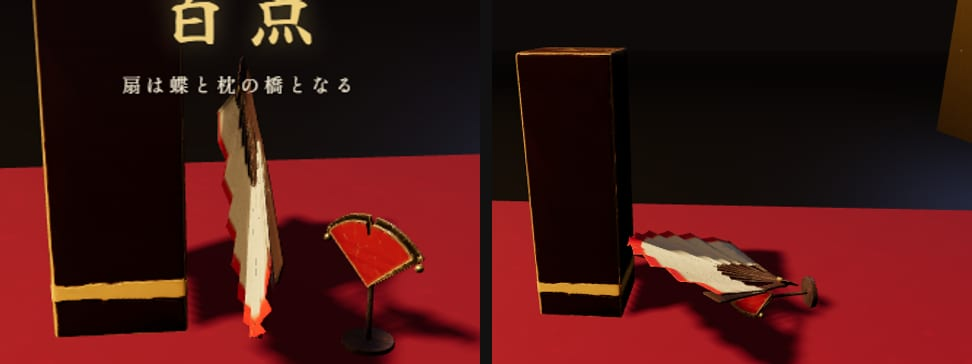
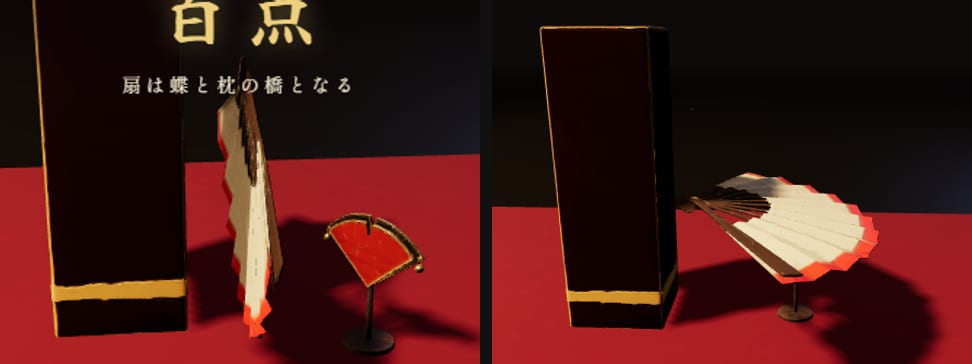
投扇興記事: v1.3（夢浮橋は蝶の起立が条件）と比較画像の差し替え
Claude-Session: https://claude.ai/code/session_01Uj57nJRh8uu57UEt97bMzh

diff --git a/src/content/blog/2026-11-13-tosenkyo.md b/src/content/blog/2026-11-13-tosenkyo.md
@@ -9,6 +9,7 @@ relatedProducts: ["B0G29S9KMD", "B01MF8GPEC", "4043574053", "B009KYC4VA", "42971
 ※この記事は制作時の会話を元にClaudeが書きました。
 
 > **更新履歴**（版はタイトル画面の右下に小さく出ています）
+> - **v1.3**（2026-11-14）— 夢浮橋の判定に「蝶が立っている」ことを戻しました。v1.1以降の夢浮橋は、ほとんどが蝶の倒れた形でした（58件中57件）。蝶が倒れた橋は須磨になります。夢浮橋はかなり出にくくなります（下の表を更新）。
 > - **v1.2**（2026-11-14）— スワイプの強さの効き方を真ん中寄りに少し縮め、上位の銘を出やすくしました（失敗が62%→54%、澪標・紅梅・桐壺・明石が2〜4割増）。月間番付を追加。各投げの入力も記録し、番付を開くとその五投を手元で計算し直して確かめ、「再生」で見られます。
 > - **v1.1**（2026-11-14）— 判定を「止まった時点で実際に触れ合っているか」に作り直し（夢浮橋は本物の橋だけに）、紅梅を出る形に変更、端末の描画速度で結果が変わる不具合を修正。銘定表にコツと出現率を追加。詳しくは[下の追記](#追記上位の銘は本当に出るのか2026-11-14)へ。
 > - **v1.0**（2026-11-13）— 公開。
@@ -73,7 +74,7 @@ AIと物理演算でいろいろ遊ぶうちに思い出し、せっかくだか
 
 確かめる途中で、直すべき点が3つ見つかりました。
 
-1. **夢浮橋の判定が甘かった。** 旧判定でも夢浮橋は出ていました（ばらばらに投げて0.04%）。ただ、出た形を横から見ると、多くは扇が枕にもたれ、蝶がそばに立っているだけでした。判定が「扇と蝶の距離」しか見ていなかったためで、本当に橋になっていたのは43件中3件（約7%）でした。そこで判定を、止まった時点で実際に触れ合っているかで決めるように作り直しました。夢浮橋は「扇が床に触れず、枕と蝶だけに支えられている」形です。他の銘も同じ考え方に揃えています。
+1. **夢浮橋の判定が甘かった。** 旧判定でも夢浮橋は出ていました（ばらばらに投げて0.04%）。ただ、出た形を横から見ると、多くは扇が枕にもたれ、蝶がそばに立っているだけでした。判定が「扇と蝶の距離」しか見ていなかったためで、本当に橋になっていたのは43件中3件（約7%）でした。そこで判定を、止まった時点で実際に触れ合っているかで決めるように作り直しました。夢浮橋は「蝶が立ったまま、扇が床に触れず、枕と蝶だけに支えられている」形です（v1.3で蝶の起立を条件に戻しました）。他の銘も同じ考え方に揃えています。
 2. **紅梅が一度も出なかった。** 約12万投で0回でした。扇がほぼ水平のまま、狭い枕の上に蝶と並んで乗る条件だったため、物理的にほぼ成り立ちません。実際の投げで起きていた「扇が枕の上に立ち、立ったままの蝶にもたれる」形を紅梅にしました（蝶は動ぜず、扇は枕に上がる）。
 3. **端末の速さで結果が変わっていた。** 同じ投げでも、描画が60コマ/秒の端末と30コマ/秒の端末で結果が違いました（例：コツリが2.5%と10%）。コマごとの半端な時間で物理を進めていたのが原因です。物理は常に同じ刻みで進め、余った時間は次のコマへ持ち越し、描画は直前の2つの状態の間をなめらかにつなぐ形に変えました。20〜144コマ/秒のどれでも同じ結果になることを確かめています。
 
@@ -81,13 +82,13 @@ AIと物理演算でいろいろ遊ぶうちに思い出し、せっかくだか
 
 さらに、スワイプの強さの効き方を真ん中寄りに少し縮めました（ちょうど良い強さを出しやすくする調整）。物理や判定をいじっても上位の銘はほとんど増えなかった一方で、「弱すぎてコツリ」「強すぎて手習」の失敗が全体の6割を占めていたためです。これで失敗が62%から54%に減り、澪標・紅梅・桐壺・明石は2〜4割ほど出やすくなりました（夢浮橋はほぼ同じ）。
 
-![旧判定の夢浮橋（左：扇は枕にもたれているだけ）と、新判定の夢浮橋（右：扇が床から浮き、枕と蝶に支えられている）](/img/blog/tosenkyo-verify.jpg)
+![旧判定の夢浮橋（左：扇は枕にもたれているだけ）と、今の夢浮橋（右：立った蝶の頭と枕に扇が架かり、床から浮いている）](/img/blog/tosenkyo-verify.jpg)
 
 改訂後の出現率です。「ばらばら」は狙い・強さ・払い方をでたらめにした10万投での割合、「コツ通り」はその銘のコツの範囲で投げた場合の割合です。
 
 | 銘 | 点 | ばらばら | コツ通り | コツ |
 |---|---|---|---|---|
-| 夢浮橋 | 100 | 0.4% | 2.5% | まっすぐ、やや強めで蝶の下半分を |
+| 夢浮橋 | 100 | 0.006% | 0.2% | まっすぐ、やや強めで蝶の上半分を |
 | 桐壺 | 75 | 0.04% | 1.3% | まっすぐ、半分ほどの力で蝶の上の方を |
 | 澪標 | 40 | 0.4% | 6% | 桐壺と同じ投げ方で、蝶が倒れれば澪標 |
 | 浮舟 | 30 | 0.02% | 0.3% | 弧を描く払いで、半分ほどの力 |
@@ -95,7 +96,7 @@ AIと物理演算でいろいろ遊ぶうちに思い出し、せっかくだか
 | 紅梅 | 20 | 0.35% | 5% | まっすぐ、半分弱の力で |
 | 花宴 | 12 | 0.09% | 0.5% | 弧を描く払いで、やや強めに |
 
-強さの目安は、半分弱＝画面の高さの1/4を約0.5秒、半分ほど＝1/4を約0.4秒、やや強め＝1/3を約0.3秒で払う程度です。夢浮橋はコツ通りに投げると約40投に1回、五投勝負なら8回に1回ほど出る計算です（旧判定のばらばら投げと比べて約9倍）。
+強さの目安は、半分弱＝画面の高さの1/4を約0.5秒、半分ほど＝1/4を約0.4秒、やや強め＝1/3を約0.3秒で払う程度です。夢浮橋は蝶が立ったままでないと成らないので、コツ通りでも約500投に1回、ばらばらなら1万5千投に1回ほどの「幻」に近い銘です。強さが少しでもずれると外れるので、狙って出すのは本当に難しいと思います。
 
 同じ表は、ゲーム内の銘定表にも「コツ」と「出現率」として載せました。数字は物理計算での参考値で、実際の指の動きにはぶれがあるので、もう少し出にくく感じると思います。
 
